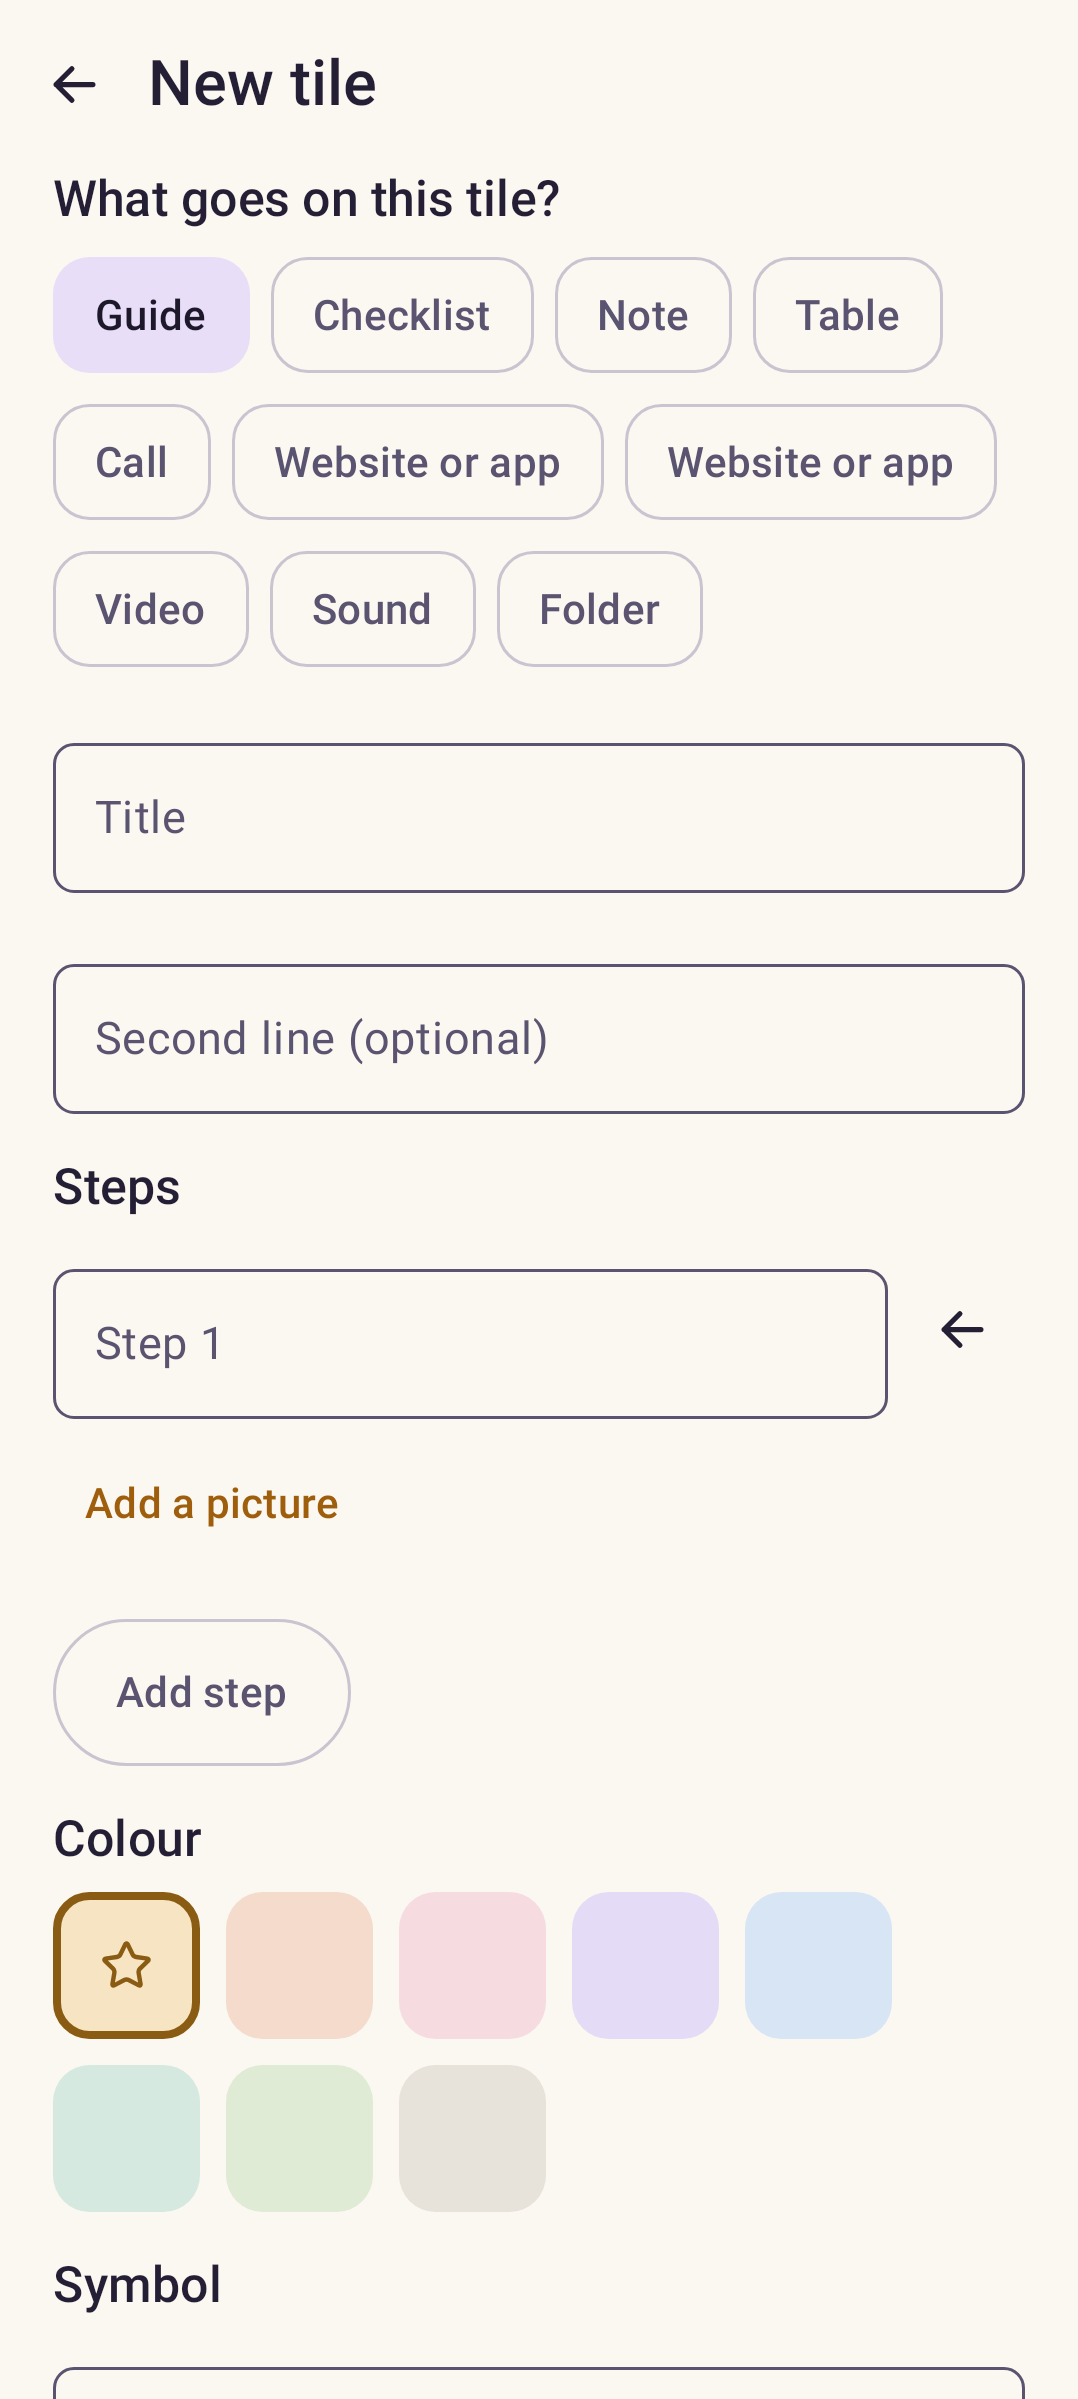
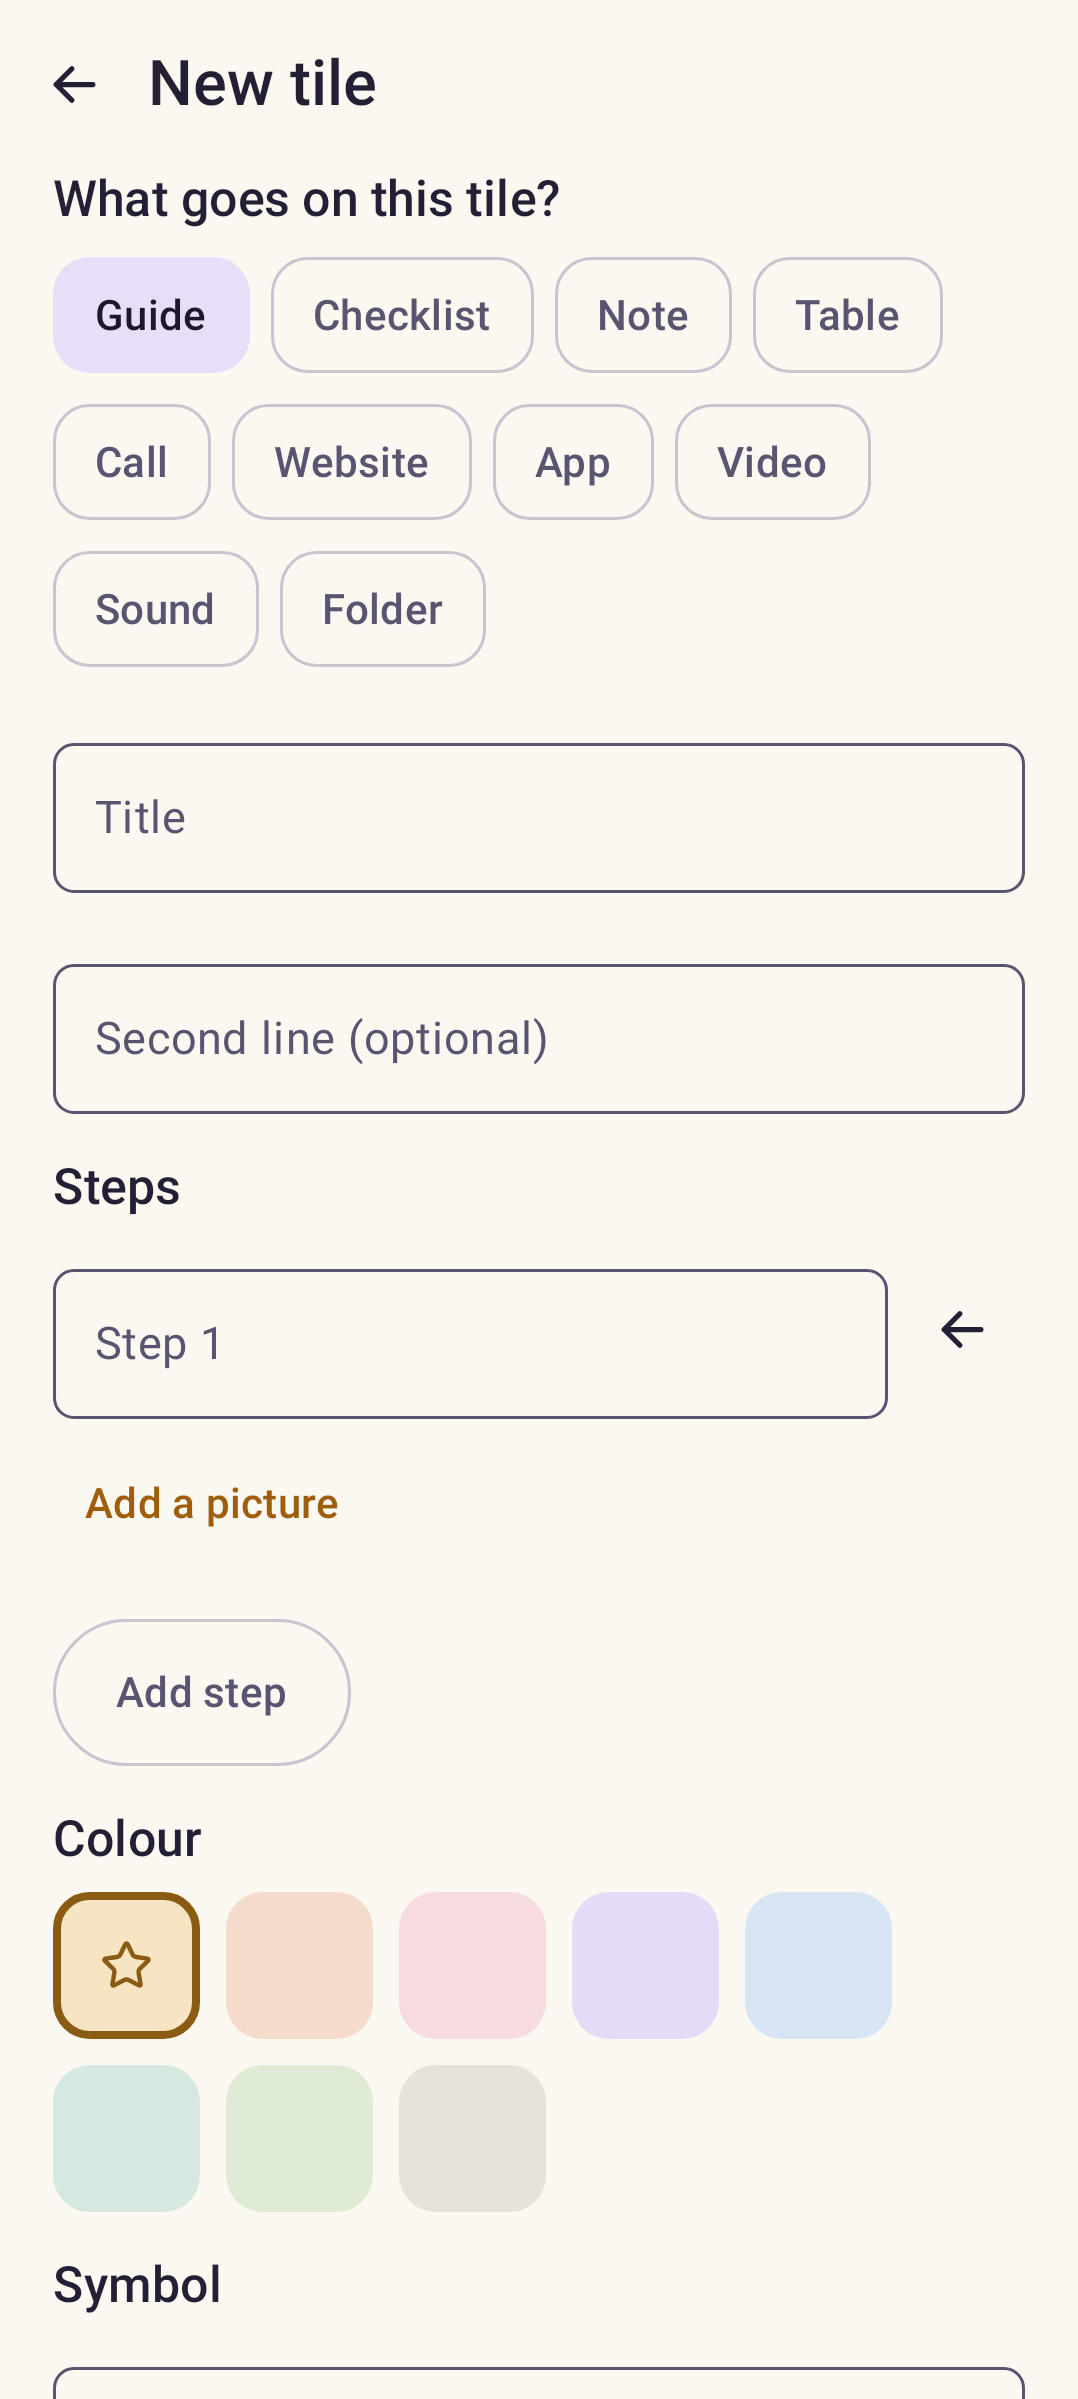
feat(card): a website tile and an app tile are two things, and both can say what they are for
`CardType.WEB` and `CardType.APP_LINK` have always been separate payloads with
separate editors, but the chooser labelled both of them `tile_link` — "Website or
app". Two identical entries, and whichever you picked you got a form for the
other kind half the time. `EditCardScreen` even imported the same string twice,
which is the shape of the bug written down.

They are "Website" and "App" now, with hints that say which is which, and the
website tile's button says "Open the website" rather than "Website or app".
`tile_link` and `tile_link_hint` are gone from all fourteen locales: one string
doing three jobs, none of them well.

Both payloads also gain an optional `caption`, the way a video tile already had
one — a line under the title for what the page or the app is actually for. "Line
142 from the corner" is what makes a bookmark usable by somebody who did not save
it. Additive with a default, so `schemaVersion` stays at 1 and a tile written
here still opens in 0.3.0 without it.

`toEditState` crossed the sixty-line limit on the way, so the contact mapping
became `contactDrafts()` rather than the threshold becoming sixty-one.

Changed region(s): [[0.0918, 0.1542, 0.8878, 0.2776]]

diff --git a/feature/card/src/commonMain/kotlin/app/larova/feature/card/edit/EditCardViewModel.kt b/feature/card/src/commonMain/kotlin/app/larova/feature/card/edit/EditCardViewModel.kt
@@ -87,6 +87,12 @@ data class EditUiState(
     val contacts: List<ContactDraft> = listOf(ContactDraft()),
     val webUrl: String = "",
     val webLabel: String = "",
+    /**
+     * What the website or the app is for, in the family's own words. One field for both types
+     * because only one of them is ever being saved — the same reason `mediaCaption` serves a video
+     * and a recording.
+     */
+    val linkCaption: String = "",
     /** The app a shortcut tile opens, and the words the parents put on it. */
     val appPackage: String = "",
     val appLabel: String = "",
@@ -228,6 +234,8 @@ class EditCardViewModel(
     fun onResetDailyChange(value: Boolean) = _state.update { it.copy(resetDaily = value) }
 
     fun onWebLabelChange(value: String) = _state.update { it.copy(webLabel = value) }
+
+    fun onLinkCaptionChange(value: String) = _state.update { it.copy(linkCaption = value) }
 
     fun onWebUrlChange(value: String) = _state.update { it.copy(webUrl = value, urlInvalid = false) }
 
@@ -676,6 +684,22 @@ private fun EditUiState.audioPayload(): CardPayload = parseUuidOrNull(mediaId)
     ?: CardPayload.Note(text = mediaCaption.trim())
 
 /**
+ * The tile's people as the editor holds them, and never an empty list: a form with no rows gives
+ * nowhere to start typing. Reads `people` rather than either half of the payload, so a tile written
+ * before the list existed opens as the one person it holds.
+ */
+private fun CardPayload.Phone.contactDrafts(): List<ContactDraft> = people
+    .map { entry ->
+        ContactDraft(
+            name = entry.displayName,
+            number = entry.number,
+            relation = entry.relation.orEmpty(),
+            inHelpSheet = entry.inHelpSheet,
+        )
+    }
+    .ifEmpty { listOf(ContactDraft()) }
+
+/**
  * The tile's own title stands in for a name nobody typed, and only on the first person: a lone
  * number with no name is a riddle, but the fourth row on "Important numbers" borrowing the tile's
  * title would put the same name on four different people.
@@ -694,11 +718,13 @@ private fun EditUiState.phonePayload() = phoneOf(
 private fun EditUiState.webPayload() = CardPayload.Web(
     url = webUrl.trim(),
     label = webLabel.trim().takeIf { it.isNotEmpty() },
+    caption = linkCaption.trim().takeIf { it.isNotEmpty() },
 )
 
 private fun EditUiState.appLinkPayload() = CardPayload.AppLink(
     packageName = appPackage,
     label = appLabel.trim().ifEmpty { title.trim() },
+    caption = linkCaption.trim().takeIf { it.isNotEmpty() },
 )
 
 /**
@@ -770,16 +796,7 @@ private fun Tile.toEditState(): EditUiState {
         is CardPayload.Phone -> base.copy(
             // `people` rather than either half of the payload, so a tile written before 0.3.0
             // opens in the editor as the one person it holds rather than as an empty form.
-            contacts = payload.people
-                .map { entry ->
-                    ContactDraft(
-                        name = entry.displayName,
-                        number = entry.number,
-                        relation = entry.relation.orEmpty(),
-                        inHelpSheet = entry.inHelpSheet,
-                    )
-                }
-                .ifEmpty { listOf(ContactDraft()) },
+            contacts = payload.contactDrafts(),
         )
 
         is CardPayload.Video -> base.copy(
@@ -793,11 +810,13 @@ private fun Tile.toEditState(): EditUiState {
         )
 
         is CardPayload.AppLink -> base.copy(
+            linkCaption = payload.caption.orEmpty(),
             appPackage = payload.packageName,
             appLabel = payload.label,
         )
 
         is CardPayload.Web -> base.copy(
+            linkCaption = payload.caption.orEmpty(),
             webUrl = payload.url,
             webLabel = payload.label.orEmpty(),
         )

diff --git a/feature/card/src/commonMain/kotlin/app/larova/feature/card/edit/EditCardScreen.kt b/feature/card/src/commonMain/kotlin/app/larova/feature/card/edit/EditCardScreen.kt
@@ -87,6 +87,7 @@ import app.larova.core.ui.resources.edit_record
 import app.larova.core.ui.resources.edit_record_failed
 import app.larova.core.ui.resources.edit_record_stop
 import app.larova.core.ui.resources.edit_recording
+import app.larova.core.ui.resources.edit_link_caption
 import app.larova.core.ui.resources.edit_new_tile
 import app.larova.core.ui.resources.edit_note_text
 import app.larova.core.ui.resources.edit_picture_failed
@@ -110,9 +111,9 @@ import app.larova.core.ui.resources.tile_audio
 import app.larova.core.ui.resources.tile_checklist
 import app.larova.core.ui.resources.tile_folder
 import app.larova.core.ui.resources.tile_guide
-import app.larova.core.ui.resources.tile_link
+import app.larova.core.ui.resources.tile_app
 import app.larova.core.ui.resources.tile_note
-import app.larova.core.ui.resources.tile_link
+import app.larova.core.ui.resources.tile_web
 import app.larova.core.ui.resources.tile_table
 import app.larova.core.ui.resources.tile_video
 import app.larova.core.ui.theme.Dimens
@@ -345,6 +346,12 @@ private fun TypeFields(state: EditUiState, callbacks: EditCardCallbacks) {
                 keyboardOptions = androidx.compose.foundation.text.KeyboardOptions(
                     keyboardType = KeyboardType.Uri,
                 ),
+                modifier = Modifier.fillMaxWidth(),
+            )
+            OutlinedTextField(
+                value = state.linkCaption,
+                onValueChange = callbacks.onLinkCaptionChange,
+                label = { Text(stringResource(Res.string.edit_link_caption)) },
                 modifier = Modifier.fillMaxWidth(),
             )
             OutlinedTextField(
@@ -592,6 +599,13 @@ private fun AppLinkFields(state: EditUiState, callbacks: EditCardCallbacks) {
                 color = MaterialTheme.colorScheme.error,
             )
         }
+
+        OutlinedTextField(
+            value = state.linkCaption,
+            onValueChange = callbacks.onLinkCaptionChange,
+            label = { Text(stringResource(Res.string.edit_link_caption)) },
+            modifier = Modifier.fillMaxWidth(),
+        )
 
         OutlinedTextField(
             value = state.appLabel,
@@ -947,11 +961,11 @@ private val CardType.label: StringResource
         CardType.NOTE -> Res.string.tile_note
         CardType.TABLE -> Res.string.tile_table
         CardType.FOLDER -> Res.string.tile_folder
-        CardType.APP_LINK -> Res.string.tile_link
+        CardType.APP_LINK -> Res.string.tile_app
         CardType.VIDEO -> Res.string.tile_video
         CardType.AUDIO -> Res.string.tile_audio
         CardType.PHONE -> Res.string.tile_call
-        CardType.WEB -> Res.string.tile_link
+        CardType.WEB -> Res.string.tile_web
     }
 
 private const val MIN_NOTE_LINES = 6
@@ -994,6 +1008,7 @@ data class EditCardCallbacks(
     val onRemoveContact: (Int) -> Unit,
     val onWebUrlChange: (String) -> Unit,
     val onWebLabelChange: (String) -> Unit,
+    val onLinkCaptionChange: (String) -> Unit,
     val onChooseApp: () -> Unit,
     val onAppQueryChange: (String) -> Unit,
     val onAppPicked: (AppChoice) -> Unit,
@@ -1050,6 +1065,7 @@ fun EditCardViewModel.callbacks(
     onRemoveContact = ::onRemoveContact,
     onWebUrlChange = ::onWebUrlChange,
     onWebLabelChange = ::onWebLabelChange,
+    onLinkCaptionChange = ::onLinkCaptionChange,
     onChooseApp = ::onChooseApp,
     onAppQueryChange = ::onAppQueryChange,
     onAppPicked = ::onAppPicked,

diff --git a/feature/card/src/commonMain/kotlin/app/larova/feature/card/SimpleViews.kt b/feature/card/src/commonMain/kotlin/app/larova/feature/card/SimpleViews.kt
@@ -25,7 +25,7 @@ import app.larova.core.ui.resources.Res
 import app.larova.core.ui.resources.help_call_note
 import app.larova.core.ui.resources.home_empty_title
 import app.larova.core.ui.resources.tile_call
-import app.larova.core.ui.resources.tile_link
+import app.larova.core.ui.resources.web_open
 import app.larova.core.ui.theme.Dimens
 import app.larova.core.ui.theme.GuideStepStyle
 import org.jetbrains.compose.resources.stringResource
@@ -137,6 +137,14 @@ fun WebsiteView(
                 color = MaterialTheme.colorScheme.onBackground,
             )
         }
+        val caption = web.caption
+        if (!caption.isNullOrBlank()) {
+            Text(
+                text = caption,
+                style = GuideStepStyle,
+                color = MaterialTheme.colorScheme.onBackground,
+            )
+        }
         Text(
             text = web.url,
             style = MaterialTheme.typography.bodyLarge,
@@ -148,7 +156,7 @@ fun WebsiteView(
                 .fillMaxWidth()
                 .heightIn(min = Dimens.MinTouchTarget),
         ) {
-            Text(stringResource(Res.string.tile_link))
+            Text(stringResource(Res.string.web_open))
         }
     }
 }

diff --git a/core/domain/src/commonMain/kotlin/app/larova/core/domain/model/CardPayload.kt b/core/domain/src/commonMain/kotlin/app/larova/core/domain/model/CardPayload.kt
@@ -95,16 +95,27 @@ sealed interface CardPayload {
             }
     }
 
+    /**
+     * [label] is what the tile's button says; [caption] is the line above it, for what the page is
+     * actually for. "Line 142 from the corner" is the sort of thing that makes a bookmark usable
+     * by somebody who did not save it.
+     */
     @Serializable
     @SerialName("web")
-    data class Web(val url: String, val label: String? = null) : CardPayload
+    data class Web(
+        val url: String,
+        val label: String? = null,
+        val caption: String? = null,
+    ) : CardPayload
 
+    /** [caption] is what the app is for, in the family's own words rather than the store's. */
     @Serializable
     @SerialName("appLink")
     data class AppLink(
         val packageName: String,
         val label: String,
         val deepLink: String? = null,
+        val caption: String? = null,
     ) : CardPayload
 
     /** Points at the board holding the tiles inside it. One level deep, by design. */

diff --git a/feature/card/src/commonMain/kotlin/app/larova/feature/card/AppLinkView.kt b/feature/card/src/commonMain/kotlin/app/larova/feature/card/AppLinkView.kt
@@ -50,6 +50,15 @@ fun AppLinkView(
             color = MaterialTheme.colorScheme.onBackground,
         )
 
+        val caption = appLink.caption
+        if (!caption.isNullOrBlank()) {
+            Text(
+                text = caption,
+                style = MaterialTheme.typography.bodyLarge,
+                color = MaterialTheme.colorScheme.onSurfaceVariant,
+            )
+        }
+
         if (isInstalled) {
             Button(
                 onClick = { onOpenApp(appLink.packageName) },

diff --git a/app/src/testDebug/kotlin/app/larova/screenshot/EditCallbacks.kt b/app/src/testDebug/kotlin/app/larova/screenshot/EditCallbacks.kt
@@ -40,6 +40,7 @@ internal fun noOpEditCallbacks() = EditCardCallbacks(
     onRemoveContact = {},
     onWebUrlChange = {},
     onWebLabelChange = {},
+    onLinkCaptionChange = {},
     onChooseApp = {},
     onAppQueryChange = {},
     onAppPicked = {},

diff --git a/CHANGELOG.md b/CHANGELOG.md
@@ -12,6 +12,14 @@ docs-only changes do not belong here.
 
 ## [Unreleased]
 
+### Changed
+- "Website or app" was one entry in the tile chooser that could make either kind of tile, with no
+  way to tell which you were getting. They are two now — "Website", which opens a link in the
+  browser, and "App", which opens something on the phone.
+- A website tile and an app tile can both carry a line saying what they are for, the way a video
+  tile can. "Line 142 from the corner" is what makes a bookmark usable by somebody who did not
+  save it.
+
 ### Fixed
 - The red "Get help" bar no longer appears on the screens only a parent sees: backup and transfer,
   the tile editor, rearranging, unlocking parent view and choosing a PIN. It stays where a
